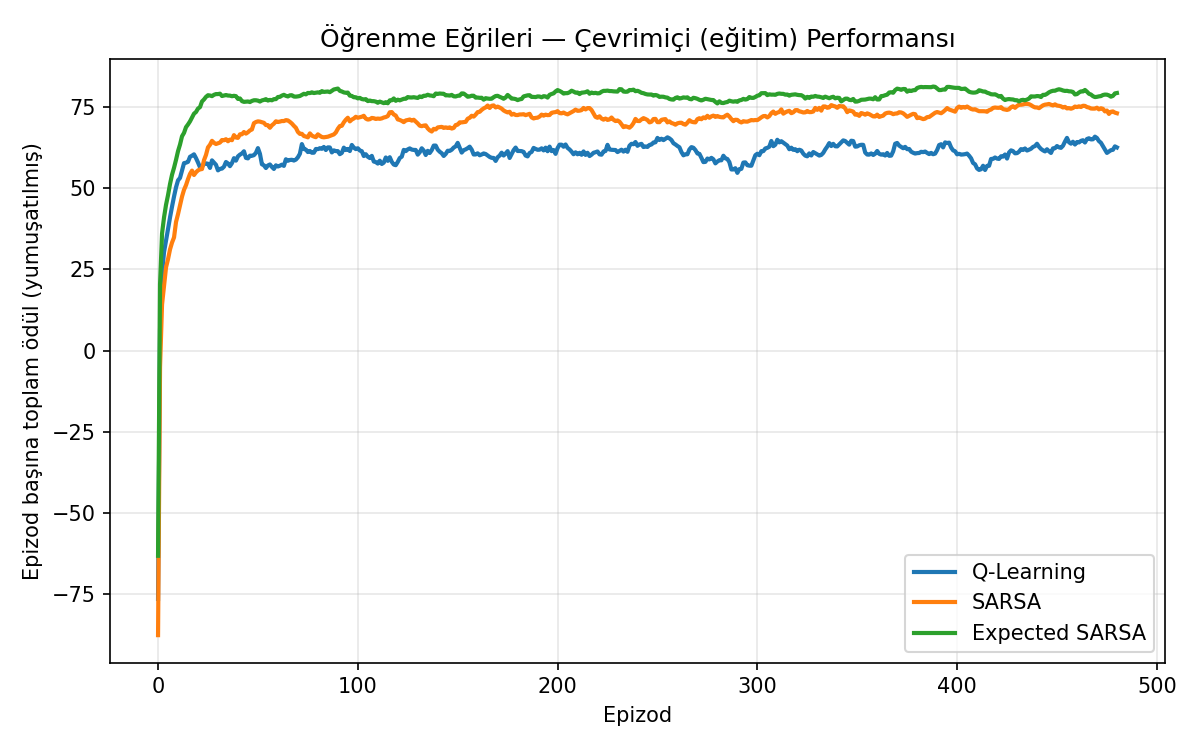
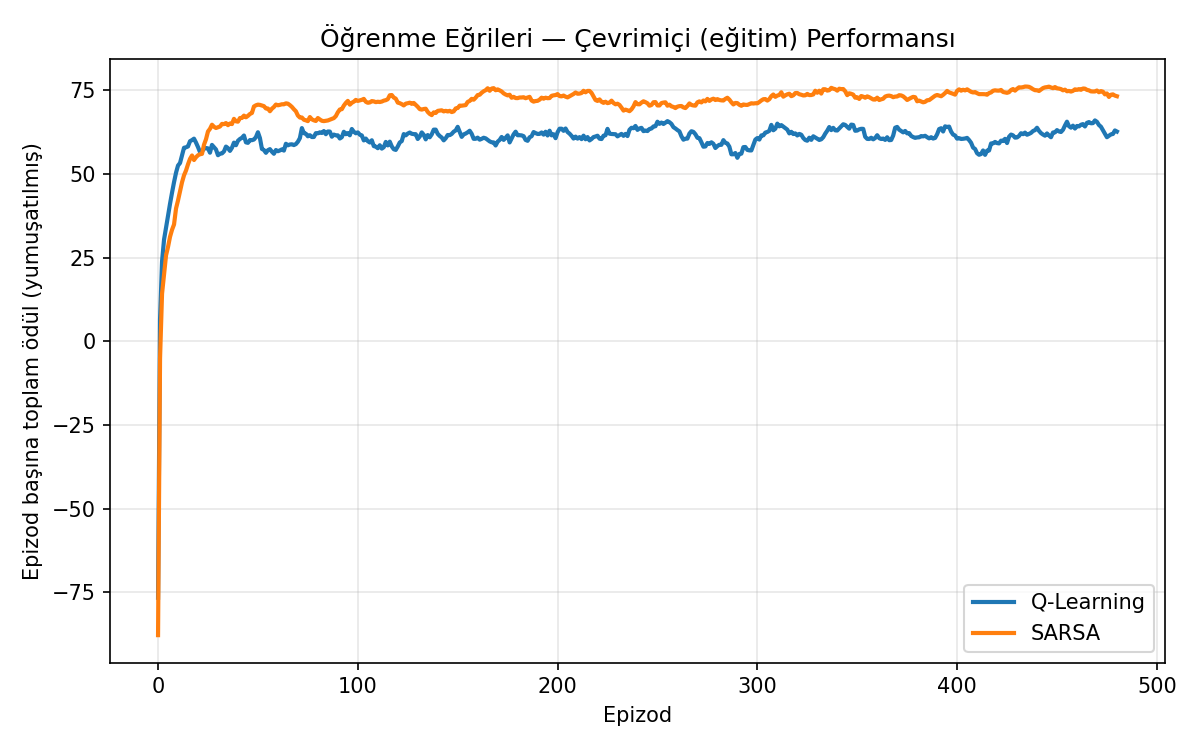
Expected SARSA'yı kaldır
Proje yalnızca Q-Learning (off-policy) ve SARSA (on-policy) karşılaştırmasına
odaklandı; ders kapsamıyla (5. hafta) birebir uyumlu hâle geldi. Kod (agents,
main, visualize, experiments), README ve figürler (02, 03, 05) buna göre
güncellendi.

diff --git a/kod/agents.py b/kod/agents.py
@@ -2,17 +2,14 @@
 Tablolu Zaman Farkı (TD) Ajanları
 =================================
 
-Tek bir `TDAgent` sınıfı üç farklı güncelleme kuralını destekler. Bunların
-hepsi ders notlarında (5. hafta) verilen tablolu RL yöntemleridir:
+Tek bir `TDAgent` sınıfı iki farklı güncelleme kuralını destekler. İkisi de
+ders notlarında (5. hafta) verilen tablolu RL yöntemleridir:
 
   * Q-Learning (off-policy):
         Q(s,a) <- Q(s,a) + alpha * [ r + gamma * max_a' Q(s',a') - Q(s,a) ]
 
   * SARSA (on-policy):
         Q(s,a) <- Q(s,a) + alpha * [ r + gamma * Q(s',a') - Q(s,a) ]
-
-  * Expected SARSA (on-policy beklenen değer):
-        Q(s,a) <- Q(s,a) + alpha * [ r + gamma * E_{a'~pi}[Q(s',a')] - Q(s,a) ]
 
 Keşif-sömürü dengesi için epsilon-greedy politika kullanılır:
   olasılık (1 - epsilon) ile en iyi eylem, olasılık epsilon ile rastgele eylem.
@@ -22,7 +19,7 @@ import numpy as np
 
 
 class TDAgent:
-    METHODS = ("q_learning", "sarsa", "expected_sarsa")
+    METHODS = ("q_learning", "sarsa")
 
     def __init__(self, n_states, n_actions, method="q_learning",
                  alpha=0.5, gamma=0.95, epsilon=0.1, rng=None):
@@ -57,15 +54,6 @@ class TDAgent:
             return int(self.rng.integers(self.n_actions))
         return self._greedy_random_tie(state)
 
-    def policy_probs(self, state):
-        """Verilen durumda epsilon-greedy politikanın eylem olasılıkları."""
-        q = self.Q[state]
-        best_mask = (q == q.max())
-        n_best = int(best_mask.sum())
-        probs = np.full(self.n_actions, self.epsilon / self.n_actions)
-        probs[best_mask] += (1.0 - self.epsilon) / n_best
-        return probs
-
     # ------------------------------------------------------------------
     # Q güncellemesi
     # ------------------------------------------------------------------
@@ -75,11 +63,8 @@ class TDAgent:
             target = r
         elif self.method == "q_learning":
             target = r + self.gamma * self.Q[s_next].max()
-        elif self.method == "sarsa":
+        else:  # sarsa
             target = r + self.gamma * self.Q[s_next, a_next]
-        else:  # expected_sarsa
-            expected = float(np.dot(self.policy_probs(s_next), self.Q[s_next]))
-            target = r + self.gamma * expected
 
         td_error = target - self.Q[s, a]
         self.Q[s, a] += self.alpha * td_error

diff --git a/kod/main.py b/kod/main.py
@@ -2,7 +2,7 @@
 Ana Çalıştırma Dosyası
 ======================
 
-Lav Tarlası ortamında Q-Learning, SARSA ve Expected SARSA yöntemlerini eğitir;
+Lav Tarlası ortamında Q-Learning ve SARSA yöntemlerini eğitir;
 rastgele politika ve BFS (model-tabanlı en kısa yol) ile karşılaştırır; tüm
 grafikleri üretir ve sayısal özet yazdırır/kaydeder.
 
@@ -29,11 +29,10 @@ import visualize
 HERE = os.path.dirname(os.path.abspath(__file__))
 FIG_DIR = os.path.join(HERE, "..", "figurler")
 
-METHODS = ["q_learning", "sarsa", "expected_sarsa"]
+METHODS = ["q_learning", "sarsa"]
 METHOD_LABELS = {
     "q_learning": "Q-Learning",
     "sarsa": "SARSA",
-    "expected_sarsa": "Expected SARSA",
 }
 
 # Hiperparametreler (ders notlarındaki değerlere yakın)

diff --git a/kod/experiments.py b/kod/experiments.py
@@ -21,7 +21,7 @@ def run_episode(env, agent):
     while True:
         s_next, reward, terminated, truncated = env.step(a)
         # Sonraki eylem politikadan seçilir (SARSA bunu kullanır;
-        # Q-Learning ve Expected SARSA için yalnızca bir sonraki adımdır)
+        # Q-Learning için yalnızca bir sonraki adımdır)
         a_next = agent.select_action(s_next)
         agent.update(s, a, reward, s_next, a_next, terminated)
         s, a = s_next, a_next

diff --git a/kod/visualize.py b/kod/visualize.py
@@ -25,7 +25,6 @@ CELL_LABELS = {START: "B", GOAL: "H", TRAP: "T"}
 METHOD_COLORS = {
     "q_learning": "#1f77b4",      # mavi
     "sarsa": "#ff7f0e",           # turuncu
-    "expected_sarsa": "#2ca02c",  # yeşil
 }
 
 

diff --git a/README.md b/README.md
@@ -2,7 +2,7 @@
 
 Bursa Teknik Üniversitesi **Pekiştirmeli Öğrenmeye Giriş** dersi dönem projesi.
 
-Bu projede, lav şeridiyle bölünmüş özel bir **ızgara dünyası (GridWorld)** ortamı tasarladım ve bir ajanı **Q-Learning**, **SARSA** ve **Expected SARSA** tablolu pekiştirmeli öğrenme yöntemleriyle eğittim. Ortam, **riskli ama kısa** (lavın kenarından) ile **güvenli ama uzun** yol arasındaki tercihi açığa çıkaracak şekilde tasarlandı; böylece **on-policy (SARSA)** ile **off-policy (Q-Learning)** öğrenme arasındaki fark somut olarak gözlemlenebiliyor.
+Bu projede, lav şeridiyle bölünmüş özel bir **ızgara dünyası (GridWorld)** ortamı tasarladım ve bir ajanı **Q-Learning** ve **SARSA** tablolu pekiştirmeli öğrenme yöntemleriyle eğittim. Ortam, **riskli ama kısa** (lavın kenarından) ile **güvenli ama uzun** yol arasındaki tercihi açığa çıkaracak şekilde tasarlandı; böylece **on-policy (SARSA)** ile **off-policy (Q-Learning)** öğrenme arasındaki fark somut olarak gözlemlenebiliyor.
 
 ## Ortam
 
@@ -21,7 +21,6 @@ Ortam bir Markov Karar Süreci (MKS) olarak modellendi: **(S, A, P, R, γ)**
 |---|---|---|
 | **Q-Learning** | off-policy | r + γ · max Q(s′, a′) |
 | **SARSA** | on-policy | r + γ · Q(s′, a′) |
-| **Expected SARSA** | on-policy | r + γ · E[Q(s′, a′)] |
 
 Karşılaştırma için ayrıca **rastgele politika** (alt referans) ve **BFS** ile bulunan en kısa güvenli yol (model-tabanlı üst referans) kullanıldı.
 
@@ -35,10 +34,9 @@ Q-Learning açgözlü politikada **optimal kısa yolu** (lavın kenarı), SARSA 
 |---|---:|---:|---:|
 | Q-Learning | 90 | 11 | 64.0 |
 | SARSA | 86 | 15 | 74.2 |
-| Expected SARSA | 86 | 15 | 79.6 |
 | Rastgele politika | ≈ −3734 | — | — |
 
-Çevrimiçi (eğitim) ödülde SARSA ve Expected SARSA, Q-Learning'i geçiyor (lav kenarından kaçınıp daha az ceza aldıkları için); Q-Learning ise açgözlü değerlendirmede en kısa yolu buluyor. Bu, on-policy/off-policy farkının somut bir gösterimidir.
+Çevrimiçi (eğitim) ödülde SARSA, Q-Learning'i geçiyor (lav kenarından kaçınıp daha az ceza aldığı için); Q-Learning ise açgözlü değerlendirmede en kısa yolu buluyor. Bu, on-policy/off-policy farkının somut bir gösterimidir.
 
 ![Öğrenme eğrileri](figurler/02_ogrenme_egrileri.png)
 
@@ -73,7 +71,7 @@ Ek analizler için: `python egitim_asamasi.py` (eğitim aşaması ve yakınsama)
 | Klasör / Dosya | Açıklama |
 |---|---|
 | `kod/environment.py` | `LavaGridWorld` — ortam (MDP) |
-| `kod/agents.py` | `TDAgent` — Q-Learning / SARSA / Expected SARSA |
+| `kod/agents.py` | `TDAgent` — Q-Learning / SARSA |
 | `kod/baselines.py` | Rastgele politika ve BFS en kısa yol |
 | `kod/experiments.py` | Eğitim döngüsü ve deneyler |
 | `kod/visualize.py` | Grafik üretimi |

diff --git a/kod/README.md b/kod/README.md
@@ -7,7 +7,7 @@
 ## Özet
 
 Bu projede, lav şeridiyle bölünmüş özel bir **ızgara dünyası (GridWorld)**
-ortamı tasarladım ve ajanı **Q-Learning**, **SARSA** ve **Expected SARSA**
+ortamı tasarladım ve ajanı **Q-Learning** ve **SARSA**
 tablolu pekiştirmeli öğrenme yöntemleriyle eğittim. Ortam bir Markov Karar
 Süreci (MKS) olarak modellenmiştir. Amaç, ajanın başlangıçtan ödül bölgesine
 (hedef) güvenli bir rota öğrenmesidir.
@@ -40,7 +40,7 @@ dosyasına da kaydeder) ve tüm grafikleri `../figurler/` klasörüne PNG olarak
 | Dosya             | Açıklama                                                        |
 |-------------------|-----------------------------------------------------------------|
 | `environment.py`  | `LavaGridWorld` — ortam (MDP: durum, eylem, ödül, geçiş)         |
-| `agents.py`       | `TDAgent` — Q-Learning / SARSA / Expected SARSA + epsilon-greedy |
+| `agents.py`       | `TDAgent` — Q-Learning / SARSA + epsilon-greedy |
 | `baselines.py`    | Rastgele politika ve BFS en kısa güvenli yol                    |
 | `experiments.py`  | Eğitim döngüsü, çok-tohumlu deney, açgözlü değerlendirme         |
 | `visualize.py`    | Tüm grafiklerin üretimi (matplotlib)                            |
